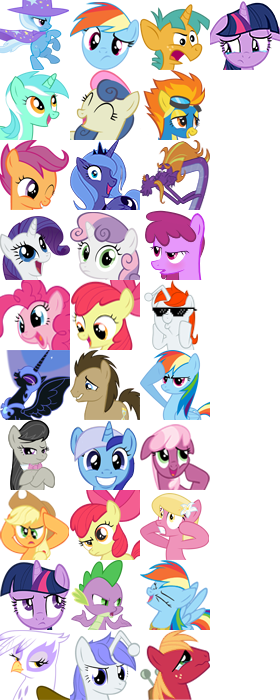
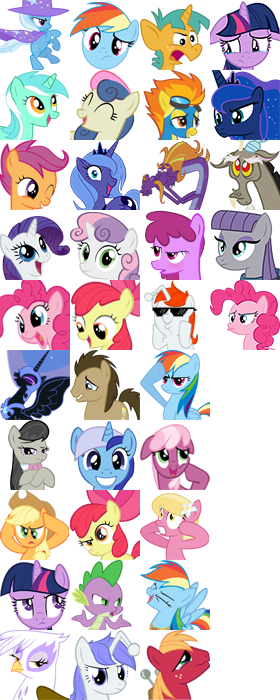
Add four new ponymoticons
New ponymoticons: lunamad, discordsad, maud, pinkiepout

Changed region(s): [[0.7429, 0.09, 1.0, 0.51]]

diff --git a/JabbR/Chat.emoji.js b/JabbR/Chat.emoji.js
@@ -6,7 +6,7 @@ var EmojiIcons;
     
     var validEmoji = { "+1": true, "-1": true, "0": true, "1": true, "109": true, "2": true, "3": true, "4": true, "5": true, "6": true, "7": true, "8": true, "8ball": true, "9": true, "a": true, "ab": true, "airplane": true, "alien": true, "ambulance": true, "angel": true, "anger": true, "angry": true, "apple": true, "aquarius": true, "aries": true, "arrow_backward": true, "arrow_down": true, "arrow_forward": true, "arrow_left": true, "arrow_lower_left": true, "arrow_lower_right": true, "arrow_right": true, "arrow_up": true, "arrow_upper_left": true, "arrow_upper_right": true, "art": true, "astonished": true, "atm": true, "b": true, "baby": true, "baby_chick": true, "baby_symbol": true, "balloon": true, "bamboo": true, "bank": true, "barber": true, "baseball": true, "basketball": true, "bath": true, "bear": true, "beer": true, "beers": true, "beginner": true, "bell": true, "bento": true, "bike": true, "bikini": true, "bird": true, "birthday": true, "black_square": true, "blue_car": true, "blue_heart": true, "blush": true, "boar": true, "boat": true, "bomb": true, "book": true, "boot": true, "bouquet": true, "bow": true, "bowtie": true, "boy": true, "bread": true, "briefcase": true, "broken_heart": true, "bug": true, "bulb": true, "bullettrain_front": true, "bullettrain_side": true, "bus": true, "busstop": true, "cactus": true, "cake": true, "calling": true, "camel": true, "camera": true, "cancer": true, "capricorn": true, "car": true, "cat": true, "cd": true, "chart": true, "checkered_flag": true, "cherry_blossom": true, "chicken": true, "christmas_tree": true, "church": true, "cinema": true, "city_sunrise": true, "city_sunset": true, "clap": true, "clapper": true, "clock1": true, "clock10": true, "clock11": true, "clock12": true, "clock2": true, "clock3": true, "clock4": true, "clock5": true, "clock6": true, "clock7": true, "clock8": true, "clock9": true, "closed_umbrella": true, "cloud": true, "clubs": true, "cn": true, "cocktail": true, "coffee": true, "cold_sweat": true, "computer": true, "confounded": true, "congratulations": true, "construction": true, "construction_worker": true, "convenience_store": true, "cool": true, "cop": true, "copyright": true, "couple": true, "couple_with_heart": true, "couplekiss": true, "cow": true, "crossed_flags": true, "crown": true, "cry": true, "cupid": true, "currency_exchange": true, "curry": true, "cyclone": true, "dancer": true, "dancers": true, "dango": true, "dart": true, "dash": true, "de": true, "department_store": true, "diamonds": true, "disappointed": true, "dog": true, "dolls": true, "dolphin": true, "dress": true, "dvd": true, "ear": true, "ear_of_rice": true, "egg": true, "eggplant": true, "eight_pointed_black_star": true, "eight_spoked_asterisk": true, "elephant": true, "email": true, "es": true, "european_castle": true, "exclamation": true, "eyes": true, "factory": true, "fallen_leaf": true, "fast_forward": true, "fax": true, "fearful": true, "feelsgood": true, "feet": true, "ferris_wheel": true, "finnadie": true, "fire": true, "fire_engine": true, "fireworks": true, "fish": true, "fist": true, "flags": true, "flushed": true, "football": true, "fork_and_knife": true, "fountain": true, "four_leaf_clover": true, "fr": true, "fries": true, "frog": true, "fuelpump": true, "gb": true, "gem": true, "gemini": true, "ghost": true, "gift": true, "gift_heart": true, "girl": true, "goberserk": true, "godmode": true, "golf": true, "green_heart": true, "grey_exclamation": true, "grey_question": true, "grin": true, "guardsman": true, "guitar": true, "gun": true, "haircut": true, "hamburger": true, "hammer": true, "hamster": true, "hand": true, "handbag": true, "hankey": true, "hash": true, "headphones": true, "heart": true, "heart_decoration": true, "heart_eyes": true, "heartbeat": true, "heartpulse": true, "hearts": true, "hibiscus": true, "high_heel": true, "horse": true, "hospital": true, "hotel": true, "hotsprings": true, "house": true, "hurtrealbad": true, "icecream": true, "id": true, "ideograph_advantage": true, "imp": true, "information_desk_person": true, "iphone": true, "it": true, "jack_o_lantern": true, "japanese_castle": true, "joy": true, "jp": true, "key": true, "kimono": true, "kiss": true, "kissing_face": true, "kissing_heart": true, "koala": true, "koko": true, "kr": true, "leaves": true, "leo": true, "libra": true, "lips": true, "lipstick": true, "lock": true, "loop": true, "loudspeaker": true, "love_hotel": true, "mag": true, "mahjong": true, "mailbox": true, "man": true, "man_with_gua_pi_mao": true, "man_with_turban": true, "maple_leaf": true, "mask": true, "massage": true, "mega": true, "memo": true, "mens": true, "metal": true, "metro": true, "microphone": true, "minidisc": true, "mobile_phone_off": true, "moneybag": true, "monkey": true, "monkey_face": true, "moon": true, "mortar_board": true, "mount_fuji": true, "mouse": true, "movie_camera": true, "muscle": true, "musical_note": true, "nail_care": true, "necktie": true, "new": true, "no_good": true, "no_smoking": true, "nose": true, "notes": true, "o": true, "o2": true, "ocean": true, "octocat": true, "octopus": true, "oden": true, "office": true, "ok": true, "ok_hand": true, "ok_woman": true, "older_man": true, "older_woman": true, "open_hands": true, "ophiuchus": true, "palm_tree": true, "parking": true, "part_alternation_mark": true, "pencil": true, "penguin": true, "pensive": true, "persevere": true, "person_with_blond_hair": true, "phone": true, "pig": true, "pill": true, "pisces": true, "point_down": true, "point_left": true, "point_right": true, "point_up": true, "point_up_2": true, "police_car": true, "poop": true, "post_office": true, "postbox": true, "pray": true, "princess": true, "punch": true, "purple_heart": true, "question": true, "rabbit": true, "racehorse": true, "radio": true, "rage": true, "rage1": true, "rage2": true, "rage3": true, "rage4": true, "rainbow": true, "raised_hands": true, "ramen": true, "red_car": true, "red_circle": true, "registered": true, "relaxed": true, "relieved": true, "restroom": true, "rewind": true, "ribbon": true, "rice": true, "rice_ball": true, "rice_cracker": true, "rice_scene": true, "ring": true, "rocket": true, "roller_coaster": true, "rose": true, "ru": true, "runner": true, "sa": true, "sagittarius": true, "sailboat": true, "sake": true, "sandal": true, "santa": true, "satellite": true, "satisfied": true, "saxophone": true, "school": true, "school_satchel": true, "scissors": true, "scorpius": true, "scream": true, "seat": true, "secret": true, "shaved_ice": true, "sheep": true, "shell": true, "ship": true, "shipit": true, "shirt": true, "shit": true, "shoe": true, "signal_strength": true, "six_pointed_star": true, "ski": true, "skull": true, "sleepy": true, "slot_machine": true, "smile": true, "smiley": true, "smirk": true, "smoking": true, "snake": true, "snowman": true, "sob": true, "soccer": true, "space_invader": true, "spades": true, "spaghetti": true, "sparkler": true, "sparkles": true, "speaker": true, "speedboat": true, "squirrel": true, "star": true, "star2": true, "stars": true, "station": true, "statue_of_liberty": true, "stew": true, "strawberry": true, "sunflower": true, "sunny": true, "sunrise": true, "sunrise_over_mountains": true, "surfer": true, "sushi": true, "suspect": true, "sweat": true, "sweat_drops": true, "swimmer": true, "syringe": true, "tada": true, "tangerine": true, "taurus": true, "taxi": true, "tea": true, "telephone": true, "tennis": true, "tent": true, "thumbsdown": true, "thumbsup": true, "ticket": true, "tiger": true, "tm": true, "toilet": true, "tokyo_tower": true, "tomato": true, "tongue": true, "top": true, "tophat": true, "traffic_light": true, "train": true, "trident": true, "trollface": true, "trophy": true, "tropical_fish": true, "truck": true, "trumpet": true, "tshirt": true, "tulip": true, "tv": true, "u5272": true, "u55b6": true, "u6307": true, "u6708": true, "u6709": true, "u6e80": true, "u7121": true, "u7533": true, "u7a7a": true, "umbrella": true, "unamused": true, "underage": true, "unlock": true, "up": true, "us": true, "v": true, "vhs": true, "vibration_mode": true, "virgo": true, "vs": true, "walking": true, "warning": true, "watermelon": true, "wave": true, "wc": true, "wedding": true, "whale": true, "wheelchair": true, "white_square": true, "wind_chime": true, "wink": true, "wink2": true, "wolf": true, "woman": true, "womans_hat": true, "womens": true, "x": true, "yellow_heart": true, "zap": true, "zzz": true };
     var validv4c = { "ducktart": "dooktart.png", "ready": "ready.gif", "birry": "ztop.gif", "vdog": "cat.gif", "gaben": "zgabe.gif", "3s": "seal.png", "burd": "birdy.gif", "snoop": "snoop.gif", "jimmies": "jimmy.gif", "sanic": "sonicx.png", "burgirl": "ss.gif", "dilbert": "dilbert.gif", "deepdarkfantasy": "fantasy.gif", "bioware": "biogurl.gif", "shazbot": "33.png", "bestkorea": "kim.gif", "hitoame": "shower.gif", "duane": "duane.gif", "keke": "keke6.png", "uncle": "VffoS.jpg", "reshiram": "ee.gif", "push": "push.gif", "autism": "a.gif", "juggalo": "ll.gif", "stanza": "heh.png", "bestgames": "pstriple.png", "gamestop": "spekettle.gif", "teto": "oz.gif", "fothegrove": "grove.gif", "aliens": "aliens.gif", "go": "zgo.gif", "pomf": "pomf.png", "kreayshawn": "kray.png", "bodywash": "bodywash.png", "goblinu": "zgobz.jpg", "feel": "1ducktart.jpg", "valien": "ssd.gif", "2spooky4me": "spooky.gif", "2spooky": "spooky.gif", "gooby": "o2XNE.jpg", "dosh": "dsdasd.png", "8bitdose": "wee2.gif", "costanza": "heh.png" };
-    var validPony = { "ajlie": "a", "priceless": "a", "flutterjerk": "a", "flutterroll": "a", "twipride": "a", "celestiamad": "a", "twicrazy": "a", "spikemeh": "a", "lunateehee": "a", "lunawait": "a", "derpwizard": "a", "abmeh": "a", "ajhappy": "a", "pinkiefear": "a", "twibeam": "a", "scootaderp": "a", "raritydaww": "a", "scootacheer": "a", "swagintosh": "a", "pinkieawe": "a", "ajsup": "a", "flutterwhoa": "a", "rdcry": "a", "silverspoon": "a", "ohcomeon": "a", "ppcute": "a", "abbored": "a", "rarityreally": "a", "raritynews": "a", "sbbook": "a", "scootaplease": "a", "applegasp": "a", "twiright": "a", "celestiawut": "a", "grannysmith": "a", "rarishock": "a", "shiningarmor": "a", "chrysalis": "a", "cadence": "a", "applederp": "a", "flutterfear": "b", "ppboring": "b", "rarityyell": "b", "fluttershy": "b", "ajcower": "b", "ajsly": "b", "eeyup": "b", "rdsmile": "b", "fluttersrs": "b", "raritydress": "b", "takealetter": "b", "rdwut": "b", "ppshrug": "b", "spikenervous": "b", "noooo": "b", "dj": "b", "fluttershh": "b", "flutteryay": "b", "squintyjack": "b", "spikepushy": "b", "ajugh": "b", "raritywut": "b", "dumbfabric": "b", "raritywhy": "b", "trixiesmug": "b", "flutterwink": "b", "rarityannoyed": "b", "soawesome": "b", "ajwut": "b", "twisquint": "b", "raritywhine": "b", "rdcool": "b", "abwut": "b", "manspike": "b", "cockatrice": "b", "facehoof": "b", "rarityjudge": "b", "rarityprimp": "b", "twirage": "b", "ppseesyou": "b", "rdsitting": "c", "rdhappy": "c", "rdannoyed": "c", "trixiesad": "c", "twismug": "c", "twismile": "c", "twistare": "c", "changeling": "c", "ohhi": "c", "party": "c", "hahaha": "c", "rdscared": "c", "flutterblush": "c", "gross": "c", "derpyhappy": "c", "twidaww": "c", "ajfrown": "c", "hmmm": "c", "pinkiejoy": "c", "whattheflut": "c", "raritysad": "c", "fabulous": "c", "derp": "c", "cadencesmile": "c", "louder": "c", "lunasad": "c", "derpyshock": "c", "shiningpride": "c", "pinkamina": "c", "loveme": "c", "lunagasp": "c", "fluttercry": "c", "scootaloo": "c", "celestia": "c", "angelglare": "c", "sneakybelle": "c", "allmybits": "c", "zecora": "c", "photofinish": "c", "ppreally": "c", "stonie": "d", "pinkiehigh": "d", "rbtrippin": "d", "spikehigh": "d", "pervertedaj": "d", "twihigh": "d", "fluttersqueak": "d", "happyrarity": "d", "bakedrarity": "d", "rbhigh": "d", "ajhuh": "d", "flutterfree": "d", "celestreeia": "d", "awwshit": "d", "treepony": "d", "rbomg": "d", "mobboss": "d", "opalescence": "d", "sneakiepinkie": "d", "dirigible": "d", "trixiehigh": "d", "twiderp": "d", "whoovesing": "d", "twiheh": "d", "flutterhigh": "d", "derpyhigh": "d", "flutteryeah": "d", "spikegimmie": "d", "sirderp": "d", "twiblah": "d", "fluttersmoke": "d", "braeburnhuh": "d", "bakedspike": "d", "lunasly": "d", "derpinkie": "d", "lunasilly": "d", "rbreally": "d", "rarityhuh": "d", "bluebowl": "d", "fillytgap": "e", "rdhuh": "e", "snails": "e", "twisad": "e", "lyra": "e", "bonbon": "e", "spitfire": "e", "cutealoo": "e", "happyluna": "e", "sotrue": "e", "wahaha": "e", "sbstare": "e", "punchdrunk": "e", "huhhuh": "e", "absmile": "e", "dealwithit": "e", "nmm": "e", "whooves": "e", "rdsalute": "e", "octavia": "e", "colgate": "e", "cheerilee": "e", "ajbaffle": "e", "abhuh": "e", "thehorror": "e", "twiponder": "e", "spikewtf": "e", "awwyeah": "e", "gilda": "e", "discentia": "e", "manlytears": "e" };
+    var validPony = { "ajlie": "a", "priceless": "a", "flutterjerk": "a", "flutterroll": "a", "twipride": "a", "celestiamad": "a", "twicrazy": "a", "spikemeh": "a", "lunateehee": "a", "lunawait": "a", "derpwizard": "a", "abmeh": "a", "ajhappy": "a", "pinkiefear": "a", "twibeam": "a", "scootaderp": "a", "raritydaww": "a", "scootacheer": "a", "swagintosh": "a", "pinkieawe": "a", "ajsup": "a", "flutterwhoa": "a", "rdcry": "a", "silverspoon": "a", "ohcomeon": "a", "ppcute": "a", "abbored": "a", "rarityreally": "a", "raritynews": "a", "sbbook": "a", "scootaplease": "a", "applegasp": "a", "twiright": "a", "celestiawut": "a", "grannysmith": "a", "rarishock": "a", "shiningarmor": "a", "chrysalis": "a", "cadence": "a", "applederp": "a", "flutterfear": "b", "ppboring": "b", "rarityyell": "b", "fluttershy": "b", "ajcower": "b", "ajsly": "b", "eeyup": "b", "rdsmile": "b", "fluttersrs": "b", "raritydress": "b", "takealetter": "b", "rdwut": "b", "ppshrug": "b", "spikenervous": "b", "noooo": "b", "dj": "b", "fluttershh": "b", "flutteryay": "b", "squintyjack": "b", "spikepushy": "b", "ajugh": "b", "raritywut": "b", "dumbfabric": "b", "raritywhy": "b", "trixiesmug": "b", "flutterwink": "b", "rarityannoyed": "b", "soawesome": "b", "ajwut": "b", "twisquint": "b", "raritywhine": "b", "rdcool": "b", "abwut": "b", "manspike": "b", "cockatrice": "b", "facehoof": "b", "rarityjudge": "b", "rarityprimp": "b", "twirage": "b", "ppseesyou": "b", "rdsitting": "c", "rdhappy": "c", "rdannoyed": "c", "trixiesad": "c", "twismug": "c", "twismile": "c", "twistare": "c", "changeling": "c", "ohhi": "c", "party": "c", "hahaha": "c", "rdscared": "c", "flutterblush": "c", "gross": "c", "derpyhappy": "c", "twidaww": "c", "ajfrown": "c", "hmmm": "c", "pinkiejoy": "c", "whattheflut": "c", "raritysad": "c", "fabulous": "c", "derp": "c", "cadencesmile": "c", "louder": "c", "lunasad": "c", "derpyshock": "c", "shiningpride": "c", "pinkamina": "c", "loveme": "c", "lunagasp": "c", "fluttercry": "c", "scootaloo": "c", "celestia": "c", "angelglare": "c", "sneakybelle": "c", "allmybits": "c", "zecora": "c", "photofinish": "c", "ppreally": "c", "stonie": "d", "pinkiehigh": "d", "rbtrippin": "d", "spikehigh": "d", "pervertedaj": "d", "twihigh": "d", "fluttersqueak": "d", "happyrarity": "d", "bakedrarity": "d", "rbhigh": "d", "ajhuh": "d", "flutterfree": "d", "celestreeia": "d", "awwshit": "d", "treepony": "d", "rbomg": "d", "mobboss": "d", "opalescence": "d", "sneakiepinkie": "d", "dirigible": "d", "trixiehigh": "d", "twiderp": "d", "whoovesing": "d", "twiheh": "d", "flutterhigh": "d", "derpyhigh": "d", "flutteryeah": "d", "spikegimmie": "d", "sirderp": "d", "twiblah": "d", "fluttersmoke": "d", "braeburnhuh": "d", "bakedspike": "d", "lunasly": "d", "derpinkie": "d", "lunasilly": "d", "rbreally": "d", "rarityhuh": "d", "bluebowl": "d", "fillytgap": "e", "rdhuh": "e", "snails": "e", "twisad": "e", "lyra": "e", "bonbon": "e", "spitfire": "e", "lunamad": "e", "cutealoo": "e", "happyluna": "e", "sotrue": "e", "discordsad": "e", "wahaha": "e", "sbstare": "e", "punchdrunk": "e", "maud": "e", "huhhuh": "e", "absmile": "e", "dealwithit": "e", "pinkiepout": "e", "nmm": "e", "whooves": "e", "rdsalute": "e", "octavia": "e", "colgate": "e", "cheerilee": "e", "ajbaffle": "e", "abhuh": "e", "thehorror": "e", "twiponder": "e", "spikewtf": "e", "awwyeah": "e", "gilda": "e", "discentia": "e", "manlytears": "e" };
     var validAlias = { "\\:-?\\)" : ":smile:", ":-?D\\b": ":grin:", ";-?\\)" : ":wink:", "\\:-?\\(": ":disappointed:", "\\:'-?\\(" : ":cry:", ":-?P\\b" : ":tongue:", ":-?p\\b" : ":tongue:", ":-?O\\b" : ":astonished:", ":-?o\\b" : ":astonished:", "<3" : ":heart:" };
 
 

diff --git a/JabbR/Content/ponymoticon.css b/JabbR/Content/ponymoticon.css
@@ -176,15 +176,19 @@
 .ponymoticon-lyra { background-position: -0px -70px; }
 .ponymoticon-bonbon { background-position: -70px -70px; }
 .ponymoticon-spitfire { background-position: -140px -70px; }
+.ponymoticon-lunamad { background-position: -210px -70px; }
 .ponymoticon-cutealoo { background-position: -0px -140px; }
 .ponymoticon-happyluna { background-position: -70px -140px; }
 .ponymoticon-sotrue { background-position: -140px -140px; }
+.ponymoticon-discordsad { background-position: -210px -140px; }
 .ponymoticon-wahaha { background-position: -0px -210px; }
 .ponymoticon-sbstare { background-position: -70px -210px; }
 .ponymoticon-punchdrunk { background-position: -140px -210px; }
+.ponymoticon-maud { background-position: -210px -210px; }
 .ponymoticon-huhhuh { background-position: -0px -280px; }
 .ponymoticon-absmile { background-position: -70px -280px; }
 .ponymoticon-dealwithit { background-position: -140px -280px; }
+.ponymoticon-pinkiepout { background-position: -210px -280px; }
 .ponymoticon-nmm { background-position: -0px -350px; }
 .ponymoticon-whooves { background-position: -70px -350px; }
 .ponymoticon-rdsalute { background-position: -140px -350px; }
